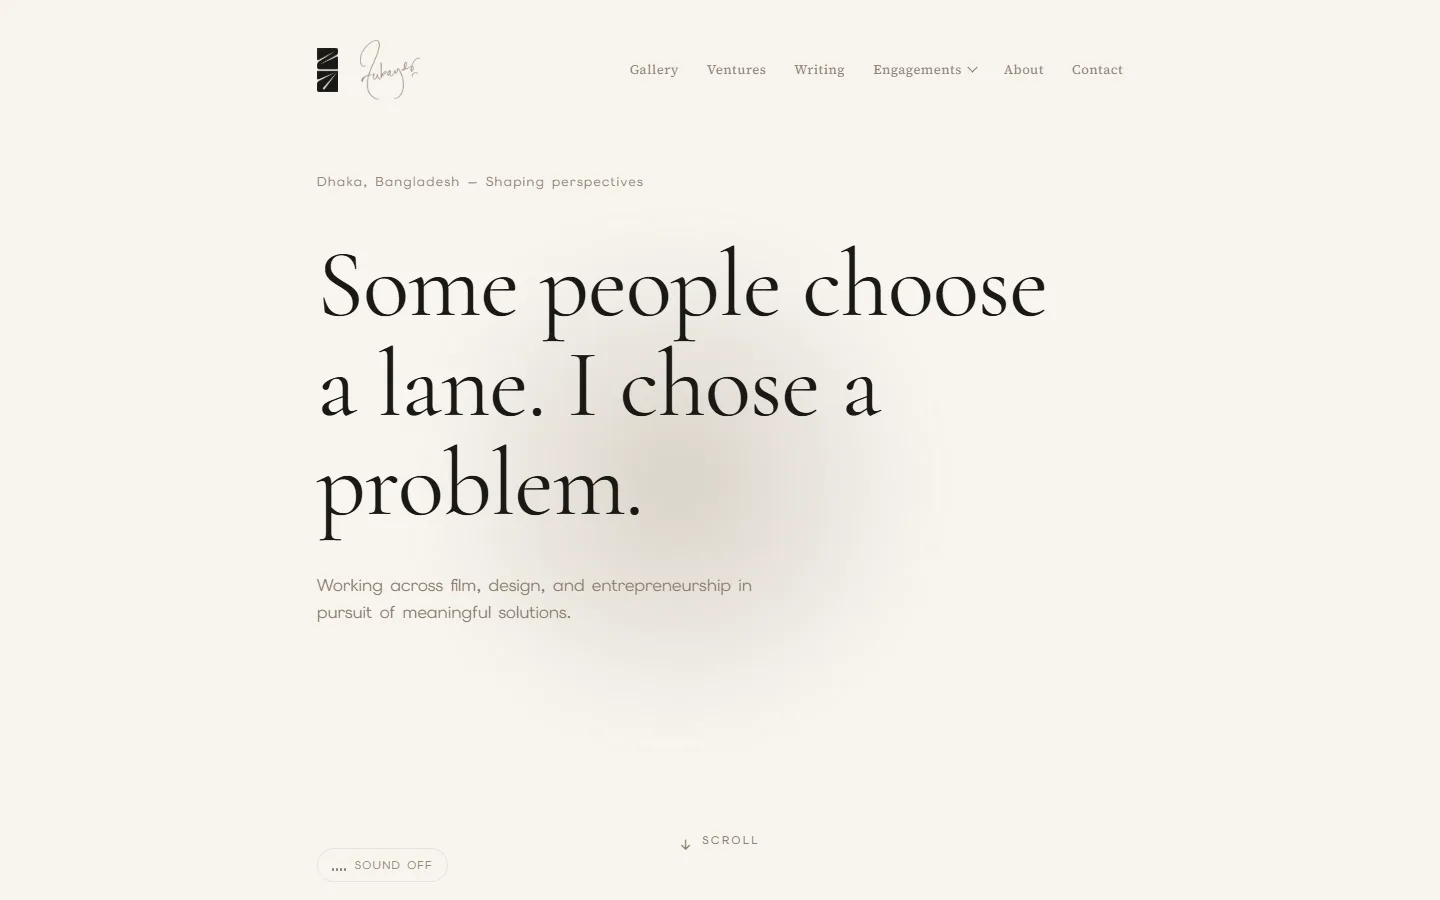
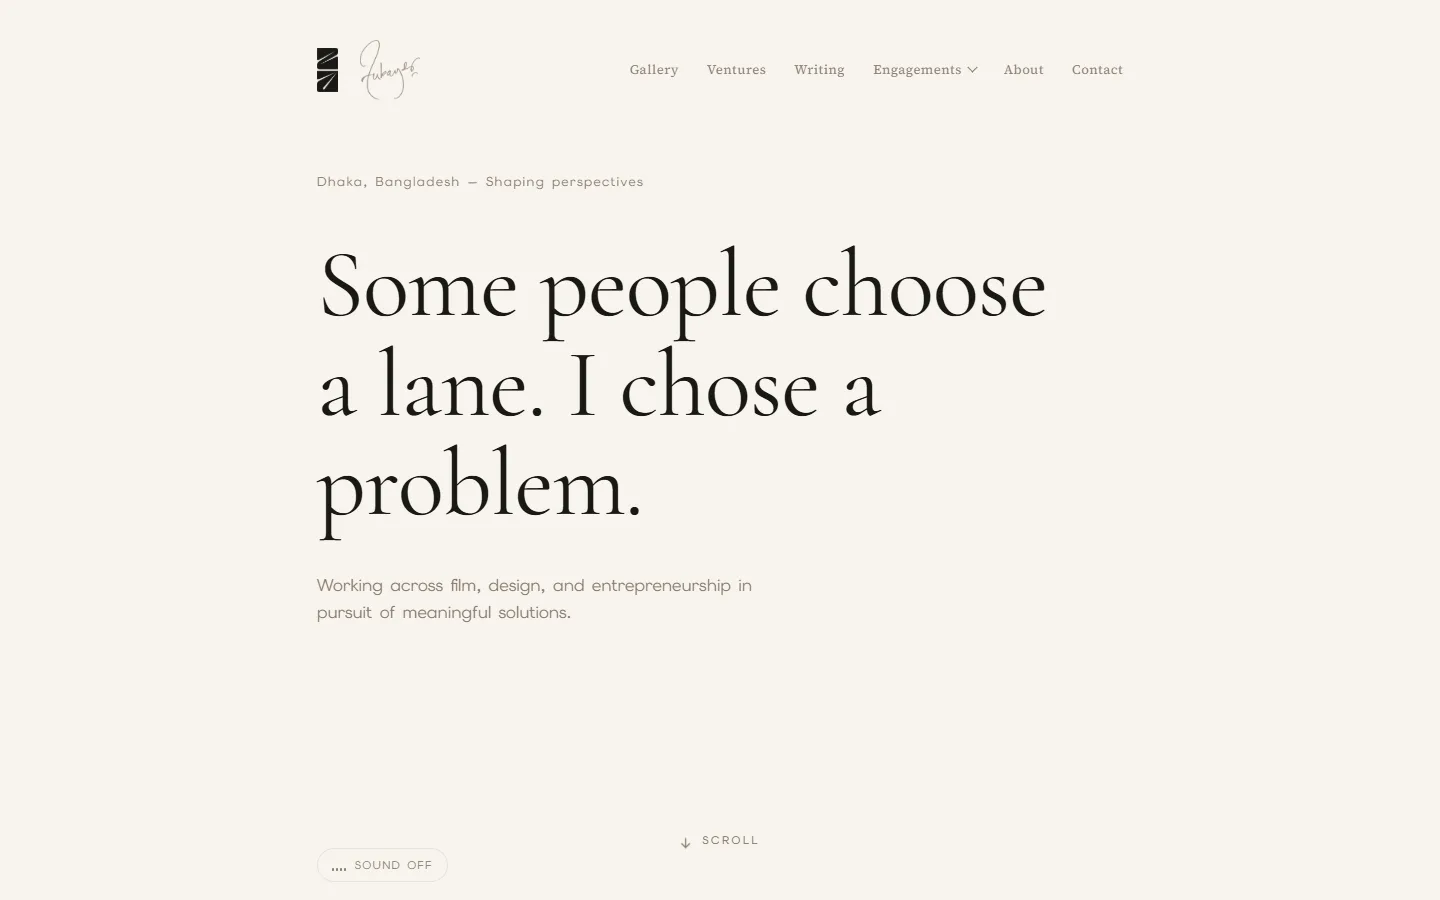
Bridge billboards: nothing in front, clean screenshot, faint horizon
- The vertical line through Zubayer.life was a cable pole. The cable now
  ends before the bridge; any line along the road converges into the
  billboards at their holds. Over the water the red pulse runs along the
  deck's center line, lights matching billboards as it passes, and
  climbs to the farthest one
- Checked by projecting every pole, lamp, leg and building edge: nothing
  stands in front of any billboard at its hold (1280x800 to 1920x1080)
- Zubayer.life recaptured with the site's decorative .orb blur hidden,
  which read as a smudge; screenshots stay evenly dimmed under the bloom
  threshold
- Horizon red on the bridge down to 0.008 (0.03 in linear light was a
  clear red band after sRGB encoding); peak kept for Contact
- SPEC.md updated

Changed region(s): [[0.4062, 0.4356, 0.5312, 0.6222]]

diff --git a/lib/bazaar.ts b/lib/bazaar.ts
@@ -4,7 +4,7 @@ import { getCity, type Footprint } from "./city";
 import { ROAD_LENGTH, roadCurve, roadFrame, sampleCamera } from "./paths";
 import { ZONE_SECTION, sectionIndex } from "./sections";
 import { ROOF_ROW, roofRowSlots } from "./roofRow";
-import { BRIDGE_FROM, BRIDGE_TO, GANTRY_A } from "./bridge";
+import { GANTRY_A } from "./bridge";
 
 /*
  * The Neon Bazaar layout. Every sign is placed by a small solver so that,
@@ -351,15 +351,19 @@ export function getBazaar(width = 1440, height = 900) {
 
 /* ---------------- Neon cable beside the road ---------------- */
 
-export const CABLE = { lateral: -9.2, from: 0.43, to: BRIDGE_TO - 0.006, height: 7.2, bridgeHeight: 11, sag: 0.55, span: 14 };
+/**
+ * The cable runs along the left side of the bazaar street and ends at the
+ * gantry, before the bridge: over the water any line along the road would
+ * converge into the billboards at their holds. The pulse continues along the
+ * bridge deck (see NeonBazaar).
+ */
+export const CABLE = { lateral: -9.2, from: 0.43, to: GANTRY_A - 0.006, height: 7.2, sag: 0.55, span: 14 };
+const cableHeight = () => CABLE.height;
+const cableSag = () => CABLE.sag;
+/** Where the cable runs at road fraction a. */
+export const cableAt = (a: number, y?: number) => roadFrame(a, CABLE.lateral, y ?? cableHeight());
 
-/** Cable height: street height through the bazaar, above the billboards on the bridge. */
-const cableHeight = (a: number) => {
-  const t = Math.min(1, Math.max(0, (a - (GANTRY_A - 0.012)) / (BRIDGE_FROM - GANTRY_A + 0.012)));
-  return CABLE.height + (CABLE.bridgeHeight - CABLE.height) * t * t * (3 - 2 * t);
-};
-
-/** Overhead cable along the left side of the road to the end of the bridge, sagging between poles. */
+/** Overhead cable along the left side of the street, sagging between poles. */
 export function buildCable() {
   const pts: Vector3[] = [];
   const poles: Vector3[] = [];
@@ -368,14 +372,14 @@ export function buildCable() {
   const per = 10;
   for (let i = 0; i <= spans; i++) {
     const a = CABLE.from + ((CABLE.to - CABLE.from) * i) / spans;
-    poles.push(roadFrame(a, CABLE.lateral, cableHeight(a)));
+    poles.push(cableAt(a));
     if (i === spans) break;
     for (let k = 0; k < per; k++) {
       const t = k / per;
       const aa = a + ((CABLE.to - CABLE.from) / spans) * t;
-      pts.push(roadFrame(aa, CABLE.lateral, cableHeight(aa) - CABLE.sag * 4 * t * (1 - t)));
+      pts.push(cableAt(aa, cableHeight() - cableSag() * 4 * t * (1 - t)));
     }
   }
-  pts.push(roadFrame(CABLE.to, CABLE.lateral, cableHeight(CABLE.to)));
+  pts.push(cableAt(CABLE.to));
   return { points: pts, poles };
 }

diff --git a/components/scene/NeonBazaar.tsx b/components/scene/NeonBazaar.tsx
@@ -20,7 +20,10 @@ import {
 } from "three";
 import type { Line2, LineSegments2 } from "three-stdlib";
 import { CABLE, buildCable, getBazaar, type SignSpec } from "@/lib/bazaar";
-import { BILLBOARDS } from "@/lib/bridge";
+import { BILLBOARDS, BRIDGE_FROM } from "@/lib/bridge";
+
+/** Height the pulse runs at along the bridge deck. */
+const DECK_Y = 0.25;
 import { bazaarStore } from "@/lib/bazaarStore";
 import { toolTipEls } from "@/lib/labelStore";
 import { logoSegments } from "@/lib/logoLines";
@@ -347,15 +350,22 @@ function CableAndPulse({ signs }: { signs: SignSpec[] }) {
         const used = featuredUsing(req.tool).map((p) => p.slug);
         const targets = BILLBOARDS.filter((b) => used.includes(b.project.slug));
         const last = targets[targets.length - 1];
-        const endIdx = last ? nearestIndex(cable.points, roadFrame(last.a, CABLE.lateral, 0)) : cable.points.length - 1;
-        const along = cable.points.slice(start, Math.max(start + 1, endIdx + 1));
+        // The cable ends before the bridge; over the water the pulse runs
+        // along the deck's center line, then climbs to the last billboard.
+        const along = cable.points.slice(start);
         const path = [sign.anchor.clone(), up, across, ...along];
-        if (last) path.push(last.anchor.clone());
+        const deck: Vector3[] = [];
+        if (last) {
+          path.push(roadFrame(BRIDGE_FROM, 0, DECK_Y));
+          for (let x = BRIDGE_FROM + 0.004; x < last.a; x += 0.004) deck.push(roadFrame(x, 0, DECK_Y));
+          deck.push(roadFrame(last.a, 0, DECK_Y));
+          path.push(...deck, last.anchor.clone());
+        }
         const cum = [0];
         for (let i = 1; i < path.length; i++) cum.push(cum[i - 1] + path[i].distanceTo(path[i - 1]));
-        const base = 3; // sign, up, across
+        const deckStart = path.length - deck.length - 1;
         const stops = targets.map((b) => {
-          const k = b === last ? path.length - 1 : base + nearestIndex(along, roadFrame(b.a, CABLE.lateral, 0));
+          const k = b === last ? path.length - 1 : deckStart + nearestIndex(deck, roadFrame(b.a, 0, DECK_Y));
           return { slug: b.project.slug, at: cum[Math.min(k, cum.length - 1)] };
         });
         bazaarStore.lit = {};

diff --git a/lib/timeline.ts b/lib/timeline.ts
@@ -89,18 +89,22 @@ export const floorLight = (q: number, k: number) => {
 export const redGate = (progress: number) => smoothstep(1.15, 1.7, sectionPhase(progress, HERO));
 
 /**
- * Horizon glow: grows a little each section up to the Projects gantry, eases
- * back down over the bridge, then rises to its peak for the Contact sunrise.
+ * Horizon glow: grows a little each section up to the Projects gantry, stays
+ * very faint over the whole bridge, then rises to its peak only on the final
+ * approach to the Contact sunrise.
  */
 export function horizonGlow(progress: number) {
   const s = progressToStop(progress);
   const P = sectionIndex("projects");
   const C = sectionIndex("contact");
   const g = clamp01((s - 0.5) / (P - 0.5));
-  let v = 0.1 + 0.16 * g * g;
-  v -= 0.1 * smoothstep(P, P + 1, s);
-  const t = smoothstep(C - 1, C, s);
-  return redGate(progress) * (v * (1 - t) + 0.6 * t);
+  const street = 0.1 + 0.16 * g * g;
+  // Linear light: 0.008 reads as a faint hint after sRGB encoding (0.03 was
+  // already a clear red band on screen).
+  const bridge = 0.008;
+  let v = street + (bridge - street) * smoothstep(P - 0.6, P + 0.2, s);
+  v += (0.6 - v) * smoothstep(C - 0.6, C, s);
+  return redGate(progress) * v;
 }
 
 /* ---------- Toolset: Neon Bazaar ---------- */

diff --git a/SPEC.md b/SPEC.md
@@ -60,7 +60,7 @@ The camera moves ONLY by scroll. It never moves on its own (a tiny idle float is
 5. Projects: an overhead highway gantry sign before the Hatirjheel bridge, then one hold per billboard (see section 6).
 6. Contact: the road ends at Sangsad Bhaban across the lake. As the camera arrives, a red sun rises behind the building. Green building + red sun + lake reflection = a living flag. Sky shifts from bg-night to bg-dawn, stars fade out, red shimmer on the water. Then "Say hello" appears with email, phone, GitHub, location and the form (name, email, message).
 
-Red hints after the hero, building toward the sunrise: red tail-light trails moving away on the road (left lane; Dhaka drives on the left), a blinking red traffic signal at one bend, and a faint red glow on the horizon behind Sangsad Bhaban that grows a little each section up to the gantry, eases back down over the bridge, and peaks only for the Contact sunrise. The toolset cable pulse is red too.
+Red hints after the hero, building toward the sunrise: red tail-light trails moving away on the road (left lane; Dhaka drives on the left), a blinking red traffic signal at one bend, and a faint red glow on the horizon behind Sangsad Bhaban that grows a little each section up to the gantry, stays barely visible over the bridge (the glow is in linear light: tiny values still read as red after sRGB encoding), and peaks only for the Contact sunrise. The toolset cable pulse is red too.
 
 Navigation: a minimal top nav (About, Work, Contact) scrolls to each stop with Lenis. About lands at the end of its sequence with the text showing.
 
@@ -94,7 +94,8 @@ City rules: buildings are generated by code (merged EdgesGeometry, no modeling).
 - The end of the bridge has a small neon sign "All projects" linking to /projects, a dark grid page with every project. It stands just past the last billboard, fully in frame beside it, and fades on only at that hold. The gantry fades in on the way to its hold.
 - Billboards show screenshots (webp, captured with headless Chrome at 1440 x 900). Featured ones may use a short muted video loop (5 to 8 seconds). No live iframes.
 - Hover: a glow around the frame, turning slightly red. Click: a detail panel with what, stack, infra and link (Esc or leaving the bridge closes it).
-- The Neon Bazaar cable runs over the bridge; its red pulse lights each matching billboard as it passes and ends on the farthest one.
+- Nothing stands between the camera and the focused billboard at any billboard hold (checked by projecting every pole, lamp, leg and building edge). The Neon Bazaar cable ends before the bridge, since any line along the road converges into the billboards; over the water the red pulse runs along the deck's center line, lights each matching billboard as it passes, and climbs to the farthest one.
+- Screenshots are dimmed evenly, just under the bloom threshold. Decorative blur layers on a site (such as Zubayer.life's .orb) are hidden when capturing, so they don't read as a smudge on the billboard.
 - Phone: normal card list over the skyline background.
 
 ## 7. Data files
